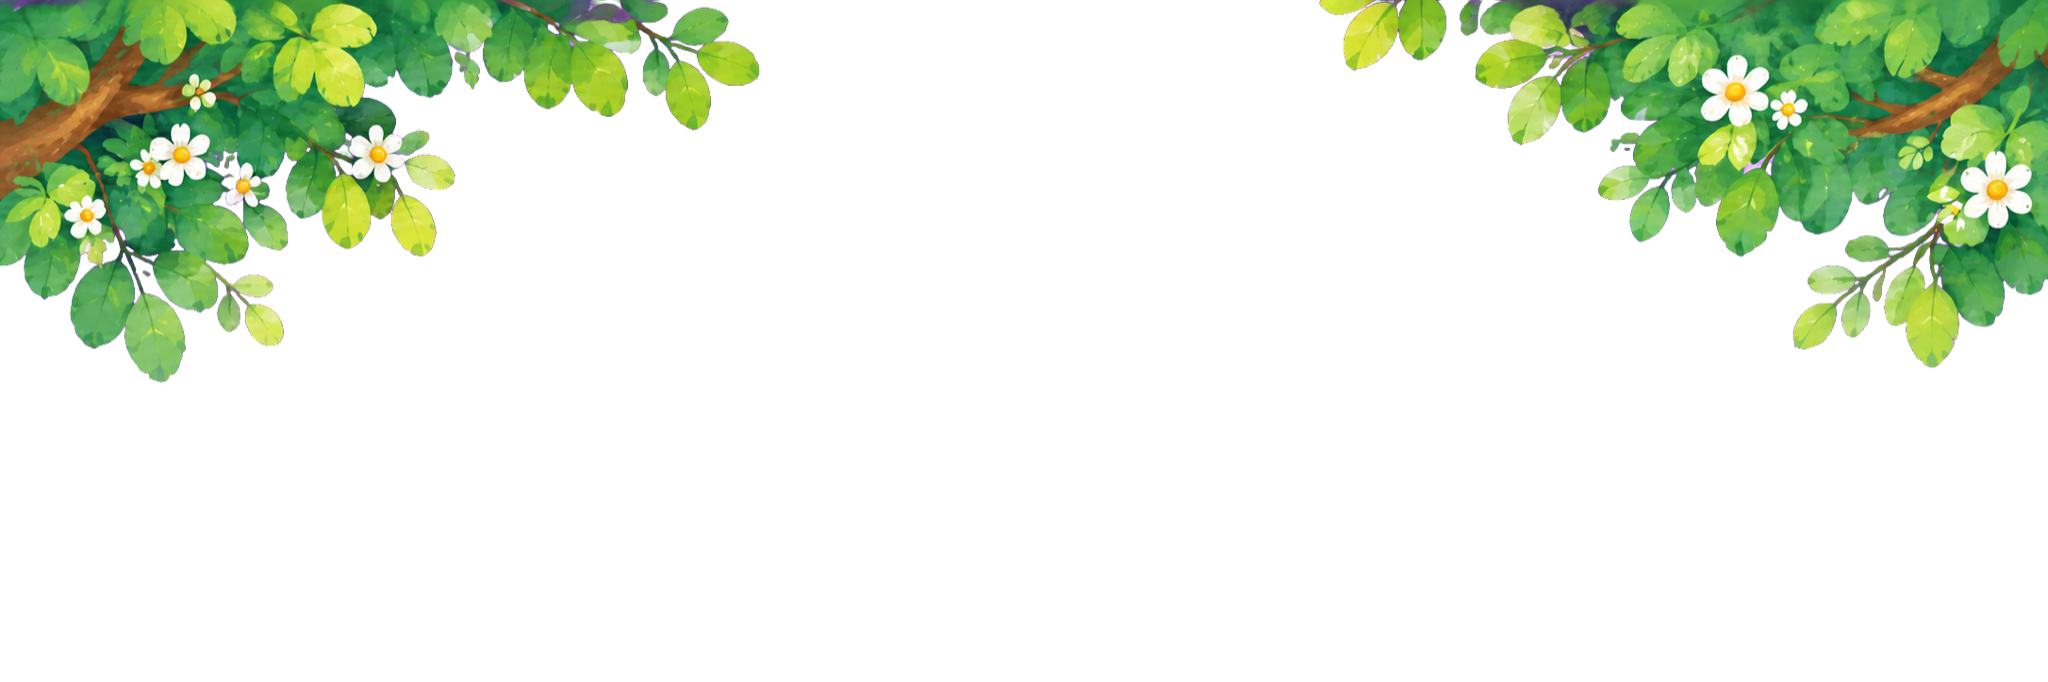
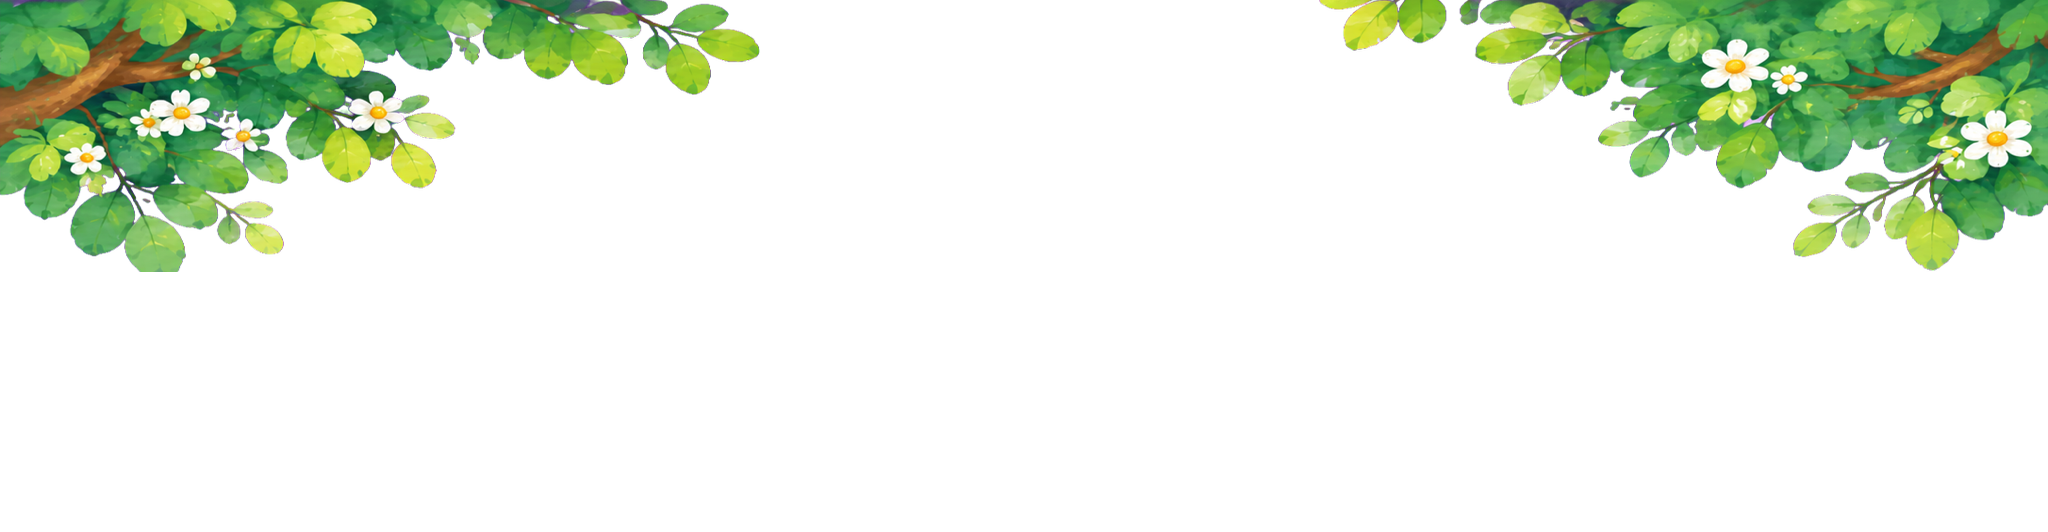
Add script to trim garden landscape images
- Introduced a new script `trim-garden-landscape-images.mjs` that trims specified top and bottom pixels from garden header and footer landscape images.
- Utilizes the `pngjs` library to read and write PNG files.
- Implements error handling to prevent overwriting source images and to ensure valid trim operations.
- Logs the dimensions of the original and trimmed images for verification.

Changed region(s): [[0.0, 0.0, 0.375, 0.5714], [0.6562, 0.0, 1.0, 0.5414], [0.0, 0.0, 0.0312, 0.0301]]

diff --git a/design/kids-friendly/shared/common.js b/design/kids-friendly/shared/common.js
@@ -27,7 +27,7 @@
   }
 
   function gardenArt(position, className = `${position}-art`) {
-    return `<div class="${className}" aria-hidden="true"><picture><source media="(orientation: landscape) and (min-width: 700px)" srcset="../shared/assets/garden-${position}-landscape.png"><img src="../shared/assets/garden-${position}-portrait.png" alt=""></picture></div>`;
+    return `<div class="${className}" aria-hidden="true"><picture><source media="(orientation: landscape) and (min-width: 700px)" srcset="../shared/assets/garden-${position}-landscape-trimmed.png"><img src="../shared/assets/garden-${position}-portrait.png" alt=""></picture></div>`;
   }
 
   function bindTheme({ toggle, extraTriggers = [], onChange } = {}) {

diff --git a/design/kids-friendly/ranks/index.css b/design/kids-friendly/ranks/index.css
@@ -17,7 +17,7 @@
 .footer-art{aspect-ratio:1170/531}
 .header-art img,.footer-art img{position:static;width:100%;height:100%;object-fit:contain}
 .header-art::after,.footer-art::after{position:absolute;inset:0;content:"";pointer-events:none;background:var(--art-overlay,transparent)}
-@media (orientation:landscape) and (min-width:700px){.header-art{height:auto;aspect-ratio:2048/682}.footer-art{height:auto;aspect-ratio:2048/1024}}
+@media (orientation:landscape) and (min-width:700px){.header-art{height:auto;aspect-ratio:2048/487}.footer-art{height:auto;aspect-ratio:2048/839}}
 
 .theme-toggle{right:max(16px,calc((100vw - 1024px)/2 + 16px))}
 

diff --git a/design/kids-friendly/student-profile/index.css b/design/kids-friendly/student-profile/index.css
@@ -96,8 +96,8 @@ button { border: 0; }
 @media (orientation: landscape) and (min-width: 700px) {
   .desktop-brand, .desktop-nav, .account { display: flex; }
   .brand > span:nth-child(2), .bottom-nav, .stars { display: none; }
-  .profile-banner { aspect-ratio: 2048 / 682; }
-  .footer-art { bottom: 0; aspect-ratio: 2048 / 1024; }
+  .profile-banner { aspect-ratio: 2048 / 487; }
+  .footer-art { bottom: 0; aspect-ratio: 2048 / 839; }
   .identity { grid-template-columns: 96px minmax(0, 1fr); width: 520px; }
   .identity-copy h1 { font-size: 18px; }
   .edit-profile { position: absolute; left: 310px; top: 31px; width: 40px; height: 40px; }

diff --git a/design/kids-friendly/shared/common.css b/design/kids-friendly/shared/common.css
@@ -129,7 +129,7 @@ body:has(.kids-bounded-page) { background: var(--kids-canvas); }
 }
 
 @media (orientation: landscape) and (min-width: 700px) {
-  .kids-bounded-page > :is(.header-art, .profile-banner) { aspect-ratio: 2048 / 682; }
-  .kids-bounded-page > .footer-art { bottom: 0; aspect-ratio: 2048 / 1024; }
-  .kids-bounded-page > .kids-page-content { padding: 20px 0 70px; }
+  .kids-bounded-page > :is(.header-art, .profile-banner) { aspect-ratio: 2048 / 487; }
+  .kids-bounded-page > .footer-art { bottom: 0; aspect-ratio: 2048 / 839; }
+  .kids-bounded-page > .kids-page-content { padding: clamp(88px, 25vw, 126px) 0 70px; }
 }

diff --git a/design/kids-friendly/student-learning/index.css b/design/kids-friendly/student-learning/index.css
@@ -96,8 +96,8 @@ button { border: 0; }
 @media (orientation: landscape) and (min-width: 700px) {
   .desktop-brand, .desktop-nav, .account { display: flex; }
   .brand > span:nth-child(2), .bottom-nav, .stars { display: none; }
-  .header-art { aspect-ratio: 2048 / 682; }
-  .footer-art { bottom: 0; aspect-ratio: 2048 / 1024; }
+  .header-art { aspect-ratio: 2048 / 487; }
+  .footer-art { bottom: 0; aspect-ratio: 2048 / 839; }
   .content { padding: 24px 0 80px; }
   .topic-header { grid-template-columns: 58px minmax(0, 1fr) auto; }
   .topic-icon { width: 58px; height: 58px; }

diff --git a/design/kids-friendly/student-exam/index.css b/design/kids-friendly/student-exam/index.css
@@ -89,9 +89,8 @@ button { border: 0; }
 button:focus-visible { outline: 3px solid #7567f1; outline-offset: 2px; }
 
 @media (orientation:landscape) and (min-width:700px) {
-  .header-art { aspect-ratio: 2048/682; }
-  .footer-art { aspect-ratio: 2048/1024; }
-  .content { padding: 20px 0 70px; }
+  .header-art { aspect-ratio: 2048/487; }
+  .footer-art { aspect-ratio: 2048/839; }
   .exam-heading { grid-template-columns: 52px minmax(0,1fr) auto; }
   .heading-icon { width: 52px; height: 52px; }
   .heading-copy h1 { font-size: 21px; }
